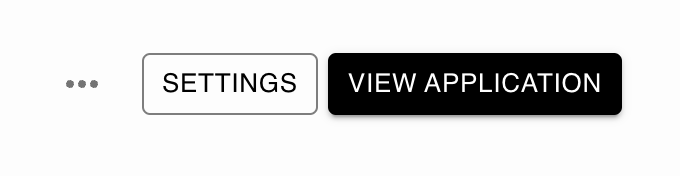
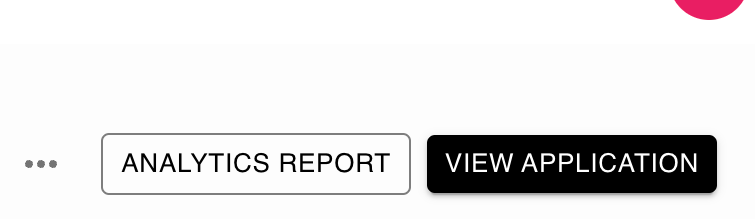
Update images with analytics button (#200)
* settings button

* button name

* app form updated

diff --git a/doc/user-guide/resources.md b/doc/user-guide/resources.md
@@ -12,7 +12,7 @@ RAM you want to provide.
 
 ## Updating an existing application
 
-If you want to increase or reduce the resources provisioned for an existing application, open the detailed view, click on the three dots (`...`) next to the `SETTINGS` button and then click on `Redeploy project`:
+If you want to increase or reduce the resources provisioned for an existing application, open the detailed view, click on the three dots (`...`) next to the `ANALYTICS REPORT` button and then click on `Redeploy Application`:
 
 ![](../static/resources/redeploy.png)
 

diff --git a/doc/quickstart/app.md b/doc/quickstart/app.md
@@ -12,7 +12,9 @@ You can also deploy from the [terminal](../user-guide/cli.md) or [GitHub](../use
 ## 2. Fill out the form
 
 
-![](../static/applications-form.png)
+![](../static/applications-form-framework.png)
+
+![](../static/applications-form-create.png)
 
 ## 3. Wait for the deployment to finish
 
